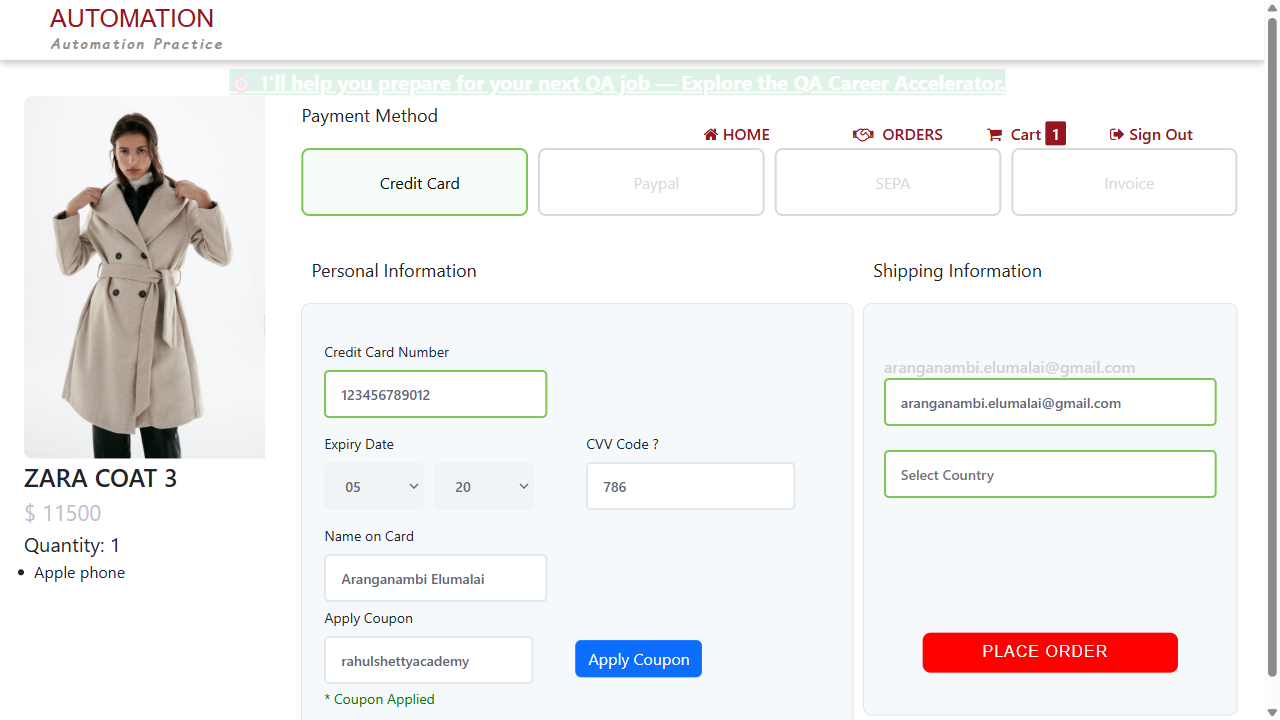
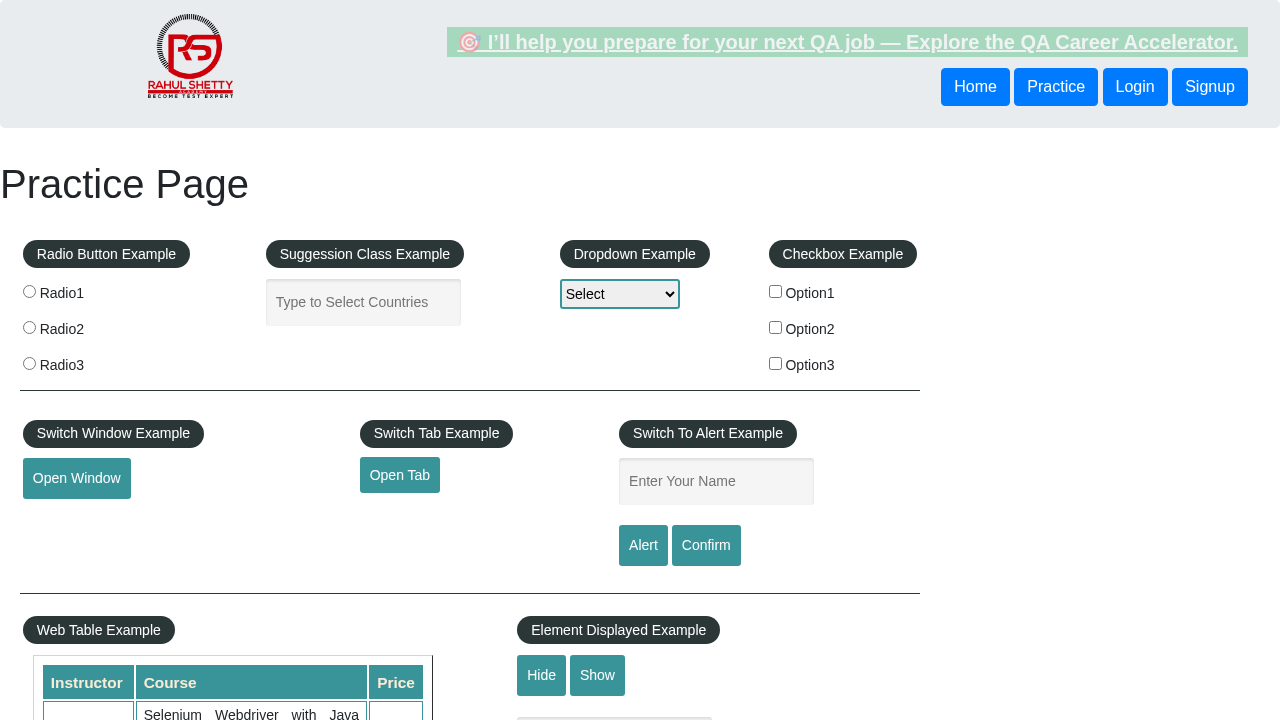
QAOps Push

diff --git a/cucumber.html b/cucumber.html
@@ -44,7 +44,7 @@
 <div id="content">
 </div>
 <script>
-window.CUCUMBER_MESSAGES = [{"meta":{"protocolVersion":"28.1.0","implementation":{"version":"12.2.0","name":"cucumber-js"},"cpu":{"name":"x64"},"os":{"name":"win32","version":"10.0.26300"},"runtime":{"name":"node.js","version":"20.13.1"}}},{"source":{"data":"Feature: Ecommerce validations\r\n\r\nScenario: Placing the order\r\nGiven Login to ecommerce application with \"aranganambi.elumalai@gmail.com\" and \"Eras@9080068137\"\r\nWhen Add \"ZARA COAT 3\" to cart\r\nThen Verify \"ZARA COAT 3\" is displayed in the cart\r\nThen Enter valid detatails and place the order\r\nThen Verify order present in the order history page","uri":"features\\Eccomerce.feature","mediaType":"text/x.cucumber.gherkin+plain"}},{"gherkinDocument":{"feature":{"tags":[],"location":{"line":1,"column":1},"language":"en","keyword":"Feature","name":"Ecommerce validations","description":"","children":[{"scenario":{"id":"2f4ec7d7-c551-434f-ae49-6b3fa7b36644","tags":[],"location":{"line":3,"column":1},"keyword":"Scenario","name":"Placing the order","description":"","steps":[{"id":"73eb69ff-9e9b-4d4a-a1d0-83cbbbfa44c0","location":{"line":4,"column":1},"keyword":"Given ","keywordType":"Context","text":"Login to ecommerce application with \"aranganambi.elumalai@gmail.com\" and \"Eras@9080068137\""},{"id":"a15e5e2a-36c6-48e9-ad71-7fb30e69fb32","location":{"line":5,"column":1},"keyword":"When ","keywordType":"Action","text":"Add \"ZARA COAT 3\" to cart"},{"id":"a806dd23-ec2e-4450-bd61-86950dfec624","location":{"line":6,"column":1},"keyword":"Then ","keywordType":"Outcome","text":"Verify \"ZARA COAT 3\" is displayed in the cart"},{"id":"47287dae-8ec9-4415-bb5c-cfb24b6f471a","location":{"line":7,"column":1},"keyword":"Then ","keywordType":"Outcome","text":"Enter valid detatails and place the order"},{"id":"34a6e715-bcc2-49f4-a9a1-eab1a0e742f6","location":{"line":8,"column":1},"keyword":"Then ","keywordType":"Outcome","text":"Verify order present in the order history page"}],"examples":[]}}]},"comments":[],"uri":"features\\Eccomerce.feature"}},{"pickle":{"id":"a6099110-c3d9-44cb-85f5-786d74141db8","uri":"features\\Eccomerce.feature","astNodeIds":["2f4ec7d7-c551-434f-ae49-6b3fa7b36644"],"tags":[],"name":"Placing the order","language":"en","steps":[{"id":"8f648884-6111-4196-8a2e-50375e4839e4","text":"Login to ecommerce application with \"aranganambi.elumalai@gmail.com\" and \"Eras@9080068137\"","type":"Context","astNodeIds":["73eb69ff-9e9b-4d4a-a1d0-83cbbbfa44c0"]},{"id":"cdcd2ca7-a5ee-40e1-ac1f-a1dc126a5a72","text":"Add \"ZARA COAT 3\" to cart","type":"Action","astNodeIds":["a15e5e2a-36c6-48e9-ad71-7fb30e69fb32"]},{"id":"e6825a54-8556-4bb4-83e7-904f1a124af2","text":"Verify \"ZARA COAT 3\" is displayed in the cart","type":"Outcome","astNodeIds":["a806dd23-ec2e-4450-bd61-86950dfec624"]},{"id":"2b58ef54-a3c2-48e3-9326-656a4548656b","text":"Enter valid detatails and place the order","type":"Outcome","astNodeIds":["47287dae-8ec9-4415-bb5c-cfb24b6f471a"]},{"id":"a5ed90c7-7ee8-4e69-a689-8d14b263b77b","text":"Verify order present in the order history page","type":"Outcome","astNodeIds":["34a6e715-bcc2-49f4-a9a1-eab1a0e742f6"]}]}},{"stepDefinition":{"id":"d935026a-384a-40b0-adf7-6231b8b3dba7","pattern":{"source":"Login to ecommerce application with {string} and {string}","type":"CUCUMBER_EXPRESSION"},"sourceReference":{"uri":"features\\Step_Definition\\step.js","location":{"line":12}}}},{"stepDefinition":{"id":"02bf901c-dba3-4f82-ba32-fdc3472c1dd8","pattern":{"source":"Add {string} to cart","type":"CUCUMBER_EXPRESSION"},"sourceReference":{"uri":"features\\Step_Definition\\step.js","location":{"line":18}}}},{"stepDefinition":{"id":"6e64316c-dd9d-48d6-a5e0-8c6a1be73e12","pattern":{"source":"Verify {string} is displayed in the cart","type":"CUCUMBER_EXPRESSION"},"sourceReference":{"uri":"features\\Step_Definition\\step.js","location":{"line":23}}}},{"stepDefinition":{"id":"f0eb7551-e9b0-46ae-b651-5b4c8d4fd38a","pattern":{"source":"Enter valid detatails and place the order","type":"CUCUMBER_EXPRESSION"},"sourceReference":{"uri":"features\\Step_Definition\\step.js","location":{"line":28}}}},{"stepDefinition":{"id":"4cb2198f-f2d5-41e7-97a3-55b3c68c6bfa","pattern":{"source":"Verify order present in the order history page","type":"CUCUMBER_EXPRESSION"},"sourceReference":{"uri":"features\\Step_Definition\\step.js","location":{"line":33}}}},{"hook":{"id":"b7a469ef-6a11-4d3e-b493-a0f6278ac7aa","type":"BEFORE_TEST_CASE","sourceReference":{"uri":"features\\Hooks\\hook.js","location":{"line":7}}}},{"hook":{"id":"f2545c4d-2aa3-422b-bd0e-4e9ddc238e69","type":"AFTER_TEST_CASE","sourceReference":{"uri":"features\\Hooks\\hook.js","location":{"line":24}}}},{"testRunStarted":{"id":"4348e2cc-d89b-4a36-9e2d-a075a137b5c5","timestamp":{"seconds":1791303663,"nanos":871000000}}},{"testCase":{"testRunStartedId":"4348e2cc-d89b-4a36-9e2d-a075a137b5c5","pickleId":"a6099110-c3d9-44cb-85f5-786d74141db8","id":"d71457bc-67f1-4406-be4e-9a18ef1e2a4b","testSteps":[{"id":"7ecfbed8-fde8-48ca-b036-c06116306a82","hookId":"b7a469ef-6a11-4d3e-b493-a0f6278ac7aa"},{"id":"36332411-bf9b-4ee8-884d-f92a46f9f446","pickleStepId":"8f648884-6111-4196-8a2e-50375e4839e4","stepDefinitionIds":["d935026a-384a-40b0-adf7-6231b8b3dba7"],"stepMatchArgumentsLists":[{"stepMatchArguments":[{"group":{"start":36,"value":"\"aranganambi.elumalai@gmail.com\"","children":[{"start":37,"value":"aranganambi.elumalai@gmail.com","children":[{"children":[]}]},{"children":[{"children":[]}]}]},"parameterTypeName":"string"},{"group":{"start":73,"value":"\"Eras@9080068137\"","children":[{"start":74,"value":"Eras@9080068137","children":[{"children":[]}]},{"children":[{"children":[]}]}]},"parameterTypeName":"string"}]}]},{"id":"ec7e8e20-0b5b-406e-873b-0390a4d95167","pickleStepId":"cdcd2ca7-a5ee-40e1-ac1f-a1dc126a5a72","stepDefinitionIds":["02bf901c-dba3-4f82-ba32-fdc3472c1dd8"],"stepMatchArgumentsLists":[{"stepMatchArguments":[{"group":{"start":4,"value":"\"ZARA COAT 3\"","children":[{"start":5,"value":"ZARA COAT 3","children":[{"children":[]}]},{"children":[{"children":[]}]}]},"parameterTypeName":"string"}]}]},{"id":"69698f91-1df2-46f1-b2b7-a1b1f4526f16","pickleStepId":"e6825a54-8556-4bb4-83e7-904f1a124af2","stepDefinitionIds":["6e64316c-dd9d-48d6-a5e0-8c6a1be73e12"],"stepMatchArgumentsLists":[{"stepMatchArguments":[{"group":{"start":7,"value":"\"ZARA COAT 3\"","children":[{"start":8,"value":"ZARA COAT 3","children":[{"children":[]}]},{"children":[{"children":[]}]}]},"parameterTypeName":"string"}]}]},{"id":"00a8f1f8-bfe4-429a-8dbe-7da2d766816d","pickleStepId":"2b58ef54-a3c2-48e3-9326-656a4548656b","stepDefinitionIds":["f0eb7551-e9b0-46ae-b651-5b4c8d4fd38a"],"stepMatchArgumentsLists":[{"stepMatchArguments":[]}]},{"id":"a288070e-b7bc-4963-a63a-4e04b859bc99","pickleStepId":"a5ed90c7-7ee8-4e69-a689-8d14b263b77b","stepDefinitionIds":["4cb2198f-f2d5-41e7-97a3-55b3c68c6bfa"],"stepMatchArgumentsLists":[{"stepMatchArguments":[]}]},{"id":"ff544a78-d8f8-4c33-9db9-e4370e054d3a","hookId":"f2545c4d-2aa3-422b-bd0e-4e9ddc238e69"}]}},{"testCaseStarted":{"attempt":0,"testCaseId":"d71457bc-67f1-4406-be4e-9a18ef1e2a4b","id":"df3741eb-45a9-4dad-9708-bc5bad283e1b","timestamp":{"seconds":1791303663,"nanos":904000000}}},{"testStepStarted":{"testCaseStartedId":"df3741eb-45a9-4dad-9708-bc5bad283e1b","testStepId":"7ecfbed8-fde8-48ca-b036-c06116306a82","timestamp":{"seconds":1791303663,"nanos":904000000}}},{"testStepFinished":{"testCaseStartedId":"df3741eb-45a9-4dad-9708-bc5bad283e1b","testStepId":"7ecfbed8-fde8-48ca-b036-c06116306a82","testStepResult":{"duration":{"seconds":3,"nanos":356785400},"status":"PASSED"},"timestamp":{"seconds":1791303667,"nanos":264000000}}},{"testStepStarted":{"testCaseStartedId":"df3741eb-45a9-4dad-9708-bc5bad283e1b","testStepId":"36332411-bf9b-4ee8-884d-f92a46f9f446","timestamp":{"seconds":1791303667,"nanos":265000000}}},{"testStepFinished":{"testCaseStartedId":"df3741eb-45a9-4dad-9708-bc5bad283e1b","testStepId":"36332411-bf9b-4ee8-884d-f92a46f9f446","testStepResult":{"duration":{"seconds":4,"nanos":578334199},"status":"PASSED"},"timestamp":{"seconds":1791303671,"nanos":846000000}}},{"testStepStarted":{"testCaseStartedId":"df3741eb-45a9-4dad-9708-bc5bad283e1b","testStepId":"ec7e8e20-0b5b-406e-873b-0390a4d95167","timestamp":{"seconds":1791303671,"nanos":849000000}}},{"testStepFinished":{"testCaseStartedId":"df3741eb-45a9-4dad-9708-bc5bad283e1b","testStepId":"ec7e8e20-0b5b-406e-873b-0390a4d95167","testStepResult":{"duration":{"seconds":2,"nanos":592989097},"status":"PASSED"},"timestamp":{"seconds":1791303674,"nanos":444000000}}},{"testStepStarted":{"testCaseStartedId":"df3741eb-45a9-4dad-9708-bc5bad283e1b","testStepId":"69698f91-1df2-46f1-b2b7-a1b1f4526f16","timestamp":{"seconds":1791303674,"nanos":447000000}}},{"testStepFinished":{"testCaseStartedId":"df3741eb-45a9-4dad-9708-bc5bad283e1b","testStepId":"69698f91-1df2-46f1-b2b7-a1b1f4526f16","testStepResult":{"duration":{"seconds":0,"nanos":393608499},"status":"PASSED"},"timestamp":{"seconds":1791303674,"nanos":845000000}}},{"testStepStarted":{"testCaseStartedId":"df3741eb-45a9-4dad-9708-bc5bad283e1b","testStepId":"00a8f1f8-bfe4-429a-8dbe-7da2d766816d","timestamp":{"seconds":1791303674,"nanos":846000000}}},{"testStepFinished":{"testCaseStartedId":"df3741eb-45a9-4dad-9708-bc5bad283e1b","testStepId":"00a8f1f8-bfe4-429a-8dbe-7da2d766816d","testStepResult":{"duration":{"seconds":5,"nanos":975251600},"status":"PASSED"},"timestamp":{"seconds":1791303680,"nanos":823000000}}},{"testStepStarted":{"testCaseStartedId":"df3741eb-45a9-4dad-9708-bc5bad283e1b","testStepId":"a288070e-b7bc-4963-a63a-4e04b859bc99","timestamp":{"seconds":1791303680,"nanos":825000000}}},{"testStepFinished":{"testCaseStartedId":"df3741eb-45a9-4dad-9708-bc5bad283e1b","testStepId":"a288070e-b7bc-4963-a63a-4e04b859bc99","testStepResult":{"duration":{"seconds":0,"nanos":744530897},"status":"PASSED"},"timestamp":{"seconds":1791303681,"nanos":572000000}}},{"testStepStarted":{"testCaseStartedId":"df3741eb-45a9-4dad-9708-bc5bad283e1b","testStepId":"ff544a78-d8f8-4c33-9db9-e4370e054d3a","timestamp":{"seconds":1791303681,"nanos":574000000}}},{"testStepFinished":{"testCaseStartedId":"df3741eb-45a9-4dad-9708-bc5bad283e1b","testStepId":"ff544a78-d8f8-4c33-9db9-e4370e054d3a","testStepResult":{"duration":{"seconds":0,"nanos":3496299},"status":"PASSED"},"timestamp":{"seconds":1791303681,"nanos":579000000}}},{"testCaseFinished":{"testCaseStartedId":"df3741eb-45a9-4dad-9708-bc5bad283e1b","timestamp":{"seconds":1791303681,"nanos":581000000},"willBeRetried":false}},{"testRunFinished":{"testRunStartedId":"4348e2cc-d89b-4a36-9e2d-a075a137b5c5","timestamp":{"seconds":1791303681,"nanos":586000000},"success":true}}];
+window.CUCUMBER_MESSAGES = [{"meta":{"protocolVersion":"28.1.0","implementation":{"version":"12.2.0","name":"cucumber-js"},"cpu":{"name":"x64"},"os":{"name":"win32","version":"10.0.26300"},"runtime":{"name":"node.js","version":"20.13.1"},"ci":{"name":"Jenkins","url":"http://localhost:8080/job/PlaywrightFramework/23/","buildNumber":"23","git":{"revision":"9a4dd3bdb441e91f334064f979764026d0f11337","remote":"https://github.com/aranganambi/playwrightAutomation.git"}}}},{"source":{"data":"Feature: Ecommerce validations\r\n\r\nScenario: Placing the order\r\nGiven Login to ecommerce application with \"aranganambi.elumalai@gmail.com\" and \"Eras@9080068137\"\r\nWhen Add \"ZARA COAT 3\" to cart\r\nThen Verify \"ZARA COAT 3\" is displayed in the cart\r\nThen Enter valid detatails and place the order\r\nThen Verify order present in the order history page","uri":"features\\Eccomerce.feature","mediaType":"text/x.cucumber.gherkin+plain"}},{"gherkinDocument":{"feature":{"tags":[],"location":{"line":1,"column":1},"language":"en","keyword":"Feature","name":"Ecommerce validations","description":"","children":[{"scenario":{"id":"a778d206-b7c1-4122-9386-1f6e5c82230e","tags":[],"location":{"line":3,"column":1},"keyword":"Scenario","name":"Placing the order","description":"","steps":[{"id":"4777723b-67d7-46b2-951a-bcbfe7014ad9","location":{"line":4,"column":1},"keyword":"Given ","keywordType":"Context","text":"Login to ecommerce application with \"aranganambi.elumalai@gmail.com\" and \"Eras@9080068137\""},{"id":"e9fbe020-8e73-4a65-9416-d0d09a504243","location":{"line":5,"column":1},"keyword":"When ","keywordType":"Action","text":"Add \"ZARA COAT 3\" to cart"},{"id":"2c4b8047-a97b-484a-8fe9-e5b62880e35a","location":{"line":6,"column":1},"keyword":"Then ","keywordType":"Outcome","text":"Verify \"ZARA COAT 3\" is displayed in the cart"},{"id":"3e8999b6-c35c-490f-a94a-2cbef3a61010","location":{"line":7,"column":1},"keyword":"Then ","keywordType":"Outcome","text":"Enter valid detatails and place the order"},{"id":"818b529e-f506-41e1-88c9-06c2e55d4757","location":{"line":8,"column":1},"keyword":"Then ","keywordType":"Outcome","text":"Verify order present in the order history page"}],"examples":[]}}]},"comments":[],"uri":"features\\Eccomerce.feature"}},{"pickle":{"id":"da1e9775-0f46-497c-86c9-731037b6a17c","uri":"features\\Eccomerce.feature","astNodeIds":["a778d206-b7c1-4122-9386-1f6e5c82230e"],"tags":[],"name":"Placing the order","language":"en","steps":[{"id":"a23862fd-8d32-482b-b5f8-3e4ada25c15d","text":"Login to ecommerce application with \"aranganambi.elumalai@gmail.com\" and \"Eras@9080068137\"","type":"Context","astNodeIds":["4777723b-67d7-46b2-951a-bcbfe7014ad9"]},{"id":"5be43095-bfec-47bd-abf9-0b4f902e286a","text":"Add \"ZARA COAT 3\" to cart","type":"Action","astNodeIds":["e9fbe020-8e73-4a65-9416-d0d09a504243"]},{"id":"040c2846-fb27-46fd-9727-ebe344ddf5d9","text":"Verify \"ZARA COAT 3\" is displayed in the cart","type":"Outcome","astNodeIds":["2c4b8047-a97b-484a-8fe9-e5b62880e35a"]},{"id":"09ee1280-4d25-4240-9b40-dbefb934093e","text":"Enter valid detatails and place the order","type":"Outcome","astNodeIds":["3e8999b6-c35c-490f-a94a-2cbef3a61010"]},{"id":"05d3e628-319f-4197-a1dd-dcdaf643dfa3","text":"Verify order present in the order history page","type":"Outcome","astNodeIds":["818b529e-f506-41e1-88c9-06c2e55d4757"]}]}},{"stepDefinition":{"id":"39a02e81-5659-47be-853c-e9a0ceab112c","pattern":{"source":"Login to ecommerce application with {string} and {string}","type":"CUCUMBER_EXPRESSION"},"sourceReference":{"uri":"features\\Step_Definition\\step.js","location":{"line":12}}}},{"stepDefinition":{"id":"9dd5eec9-9e9b-4d01-ba51-1c837f6debd0","pattern":{"source":"Add {string} to cart","type":"CUCUMBER_EXPRESSION"},"sourceReference":{"uri":"features\\Step_Definition\\step.js","location":{"line":18}}}},{"stepDefinition":{"id":"d5bb6fc3-4976-4b8c-a965-d5e32c599763","pattern":{"source":"Verify {string} is displayed in the cart","type":"CUCUMBER_EXPRESSION"},"sourceReference":{"uri":"features\\Step_Definition\\step.js","location":{"line":23}}}},{"stepDefinition":{"id":"d17a321d-52eb-4293-b4a0-12eab5aa3328","pattern":{"source":"Enter valid detatails and place the order","type":"CUCUMBER_EXPRESSION"},"sourceReference":{"uri":"features\\Step_Definition\\step.js","location":{"line":28}}}},{"stepDefinition":{"id":"9adaf233-1c74-4ec7-99a5-56b5df2700cd","pattern":{"source":"Verify order present in the order history page","type":"CUCUMBER_EXPRESSION"},"sourceReference":{"uri":"features\\Step_Definition\\step.js","location":{"line":33}}}},{"hook":{"id":"3d3c0db0-fe9d-4da1-ba32-df8bef741f5f","type":"BEFORE_TEST_CASE","sourceReference":{"uri":"features\\Hooks\\hook.js","location":{"line":7}}}},{"hook":{"id":"48283479-7a00-421c-9bc4-bdd11be8639b","type":"AFTER_TEST_CASE","sourceReference":{"uri":"features\\Hooks\\hook.js","location":{"line":24}}}},{"testRunStarted":{"id":"f12da9fe-f8ea-4144-bdce-55abc6718f22","timestamp":{"seconds":1791304615,"nanos":315000000}}},{"testCase":{"testRunStartedId":"f12da9fe-f8ea-4144-bdce-55abc6718f22","pickleId":"da1e9775-0f46-497c-86c9-731037b6a17c","id":"e232a182-228a-4bf6-bab0-7114f872ca3f","testSteps":[{"id":"f1d88649-7ca6-482f-aecb-5203650168aa","hookId":"3d3c0db0-fe9d-4da1-ba32-df8bef741f5f"},{"id":"156e70e0-9a07-413d-89ed-b49249c2581f","pickleStepId":"a23862fd-8d32-482b-b5f8-3e4ada25c15d","stepDefinitionIds":["39a02e81-5659-47be-853c-e9a0ceab112c"],"stepMatchArgumentsLists":[{"stepMatchArguments":[{"group":{"start":36,"value":"\"aranganambi.elumalai@gmail.com\"","children":[{"start":37,"value":"aranganambi.elumalai@gmail.com","children":[{"children":[]}]},{"children":[{"children":[]}]}]},"parameterTypeName":"string"},{"group":{"start":73,"value":"\"Eras@9080068137\"","children":[{"start":74,"value":"Eras@9080068137","children":[{"children":[]}]},{"children":[{"children":[]}]}]},"parameterTypeName":"string"}]}]},{"id":"9ed5fd78-6889-4516-a629-bafef2e4ab8d","pickleStepId":"5be43095-bfec-47bd-abf9-0b4f902e286a","stepDefinitionIds":["9dd5eec9-9e9b-4d01-ba51-1c837f6debd0"],"stepMatchArgumentsLists":[{"stepMatchArguments":[{"group":{"start":4,"value":"\"ZARA COAT 3\"","children":[{"start":5,"value":"ZARA COAT 3","children":[{"children":[]}]},{"children":[{"children":[]}]}]},"parameterTypeName":"string"}]}]},{"id":"3309a122-ce10-4470-bbbf-e913f0f17482","pickleStepId":"040c2846-fb27-46fd-9727-ebe344ddf5d9","stepDefinitionIds":["d5bb6fc3-4976-4b8c-a965-d5e32c599763"],"stepMatchArgumentsLists":[{"stepMatchArguments":[{"group":{"start":7,"value":"\"ZARA COAT 3\"","children":[{"start":8,"value":"ZARA COAT 3","children":[{"children":[]}]},{"children":[{"children":[]}]}]},"parameterTypeName":"string"}]}]},{"id":"fcce5e2b-6d7d-4571-a05a-b3c7d9e6f6ea","pickleStepId":"09ee1280-4d25-4240-9b40-dbefb934093e","stepDefinitionIds":["d17a321d-52eb-4293-b4a0-12eab5aa3328"],"stepMatchArgumentsLists":[{"stepMatchArguments":[]}]},{"id":"b9f5fa43-b863-43f5-a6ab-36e81fe52616","pickleStepId":"05d3e628-319f-4197-a1dd-dcdaf643dfa3","stepDefinitionIds":["9adaf233-1c74-4ec7-99a5-56b5df2700cd"],"stepMatchArgumentsLists":[{"stepMatchArguments":[]}]},{"id":"011128d4-d827-4bfb-bf0a-37286ffb02e8","hookId":"48283479-7a00-421c-9bc4-bdd11be8639b"}]}},{"testCaseStarted":{"attempt":0,"testCaseId":"e232a182-228a-4bf6-bab0-7114f872ca3f","id":"f626ecf2-2d98-4e0f-89eb-8ae13402e6ec","timestamp":{"seconds":1791304615,"nanos":343000000}}},{"testStepStarted":{"testCaseStartedId":"f626ecf2-2d98-4e0f-89eb-8ae13402e6ec","testStepId":"f1d88649-7ca6-482f-aecb-5203650168aa","timestamp":{"seconds":1791304615,"nanos":343000000}}},{"testStepFinished":{"testCaseStartedId":"f626ecf2-2d98-4e0f-89eb-8ae13402e6ec","testStepId":"f1d88649-7ca6-482f-aecb-5203650168aa","testStepResult":{"duration":{"seconds":1,"nanos":873777000},"status":"PASSED"},"timestamp":{"seconds":1791304617,"nanos":217000000}}},{"testStepStarted":{"testCaseStartedId":"f626ecf2-2d98-4e0f-89eb-8ae13402e6ec","testStepId":"156e70e0-9a07-413d-89ed-b49249c2581f","timestamp":{"seconds":1791304617,"nanos":218000000}}},{"testStepFinished":{"testCaseStartedId":"f626ecf2-2d98-4e0f-89eb-8ae13402e6ec","testStepId":"156e70e0-9a07-413d-89ed-b49249c2581f","testStepResult":{"duration":{"seconds":4,"nanos":326666498},"status":"PASSED"},"timestamp":{"seconds":1791304621,"nanos":546000000}}},{"testStepStarted":{"testCaseStartedId":"f626ecf2-2d98-4e0f-89eb-8ae13402e6ec","testStepId":"9ed5fd78-6889-4516-a629-bafef2e4ab8d","timestamp":{"seconds":1791304621,"nanos":546000000}}},{"testStepFinished":{"testCaseStartedId":"f626ecf2-2d98-4e0f-89eb-8ae13402e6ec","testStepId":"9ed5fd78-6889-4516-a629-bafef2e4ab8d","testStepResult":{"duration":{"seconds":2,"nanos":283240299},"status":"PASSED"},"timestamp":{"seconds":1791304623,"nanos":830000000}}},{"testStepStarted":{"testCaseStartedId":"f626ecf2-2d98-4e0f-89eb-8ae13402e6ec","testStepId":"3309a122-ce10-4470-bbbf-e913f0f17482","timestamp":{"seconds":1791304623,"nanos":830000000}}},{"testStepFinished":{"testCaseStartedId":"f626ecf2-2d98-4e0f-89eb-8ae13402e6ec","testStepId":"3309a122-ce10-4470-bbbf-e913f0f17482","testStepResult":{"duration":{"seconds":0,"nanos":96658399},"status":"PASSED"},"timestamp":{"seconds":1791304623,"nanos":928000000}}},{"testStepStarted":{"testCaseStartedId":"f626ecf2-2d98-4e0f-89eb-8ae13402e6ec","testStepId":"fcce5e2b-6d7d-4571-a05a-b3c7d9e6f6ea","timestamp":{"seconds":1791304623,"nanos":928000000}}},{"testStepFinished":{"testCaseStartedId":"f626ecf2-2d98-4e0f-89eb-8ae13402e6ec","testStepId":"fcce5e2b-6d7d-4571-a05a-b3c7d9e6f6ea","testStepResult":{"duration":{"seconds":4,"nanos":311280800},"status":"PASSED"},"timestamp":{"seconds":1791304628,"nanos":240000000}}},{"testStepStarted":{"testCaseStartedId":"f626ecf2-2d98-4e0f-89eb-8ae13402e6ec","testStepId":"b9f5fa43-b863-43f5-a6ab-36e81fe52616","timestamp":{"seconds":1791304628,"nanos":249000000}}},{"testStepFinished":{"testCaseStartedId":"f626ecf2-2d98-4e0f-89eb-8ae13402e6ec","testStepId":"b9f5fa43-b863-43f5-a6ab-36e81fe52616","testStepResult":{"duration":{"seconds":0,"nanos":163104398},"status":"PASSED"},"timestamp":{"seconds":1791304628,"nanos":412000000}}},{"testStepStarted":{"testCaseStartedId":"f626ecf2-2d98-4e0f-89eb-8ae13402e6ec","testStepId":"011128d4-d827-4bfb-bf0a-37286ffb02e8","timestamp":{"seconds":1791304628,"nanos":413000000}}},{"testStepFinished":{"testCaseStartedId":"f626ecf2-2d98-4e0f-89eb-8ae13402e6ec","testStepId":"011128d4-d827-4bfb-bf0a-37286ffb02e8","testStepResult":{"duration":{"seconds":0,"nanos":440599},"status":"PASSED"},"timestamp":{"seconds":1791304628,"nanos":413000000}}},{"testCaseFinished":{"testCaseStartedId":"f626ecf2-2d98-4e0f-89eb-8ae13402e6ec","timestamp":{"seconds":1791304628,"nanos":413000000},"willBeRetried":false}},{"testRunFinished":{"testRunStartedId":"f12da9fe-f8ea-4144-bdce-55abc6718f22","timestamp":{"seconds":1791304628,"nanos":414000000},"success":true}}];
 </script>
 <script>
 /*! For license information please see main.js.LICENSE.txt */

diff --git a/playwright.service.config.js b/playwright.service.config.js
@@ -1,27 +1,29 @@
-import { defineConfig } from '@playwright/test';
-import {
-  createAzurePlaywrightConfig,
-  ServiceOS,
-  ServiceAuth
-} from '@azure/playwright';
-import { AzureCliCredential } from '@azure/identity';
+const { defineConfig } = require('@playwright/test');
+const { createAzurePlaywrightConfig, ServiceOS } = require('@azure/playwright');
+const { DefaultAzureCredential } = require('@azure/identity');
+const config = require('./playwright.config');
 
-import config from './playwright.config';
-
+/* Learn more about service configuration at https://aka.ms/pww/docs/config */
 export default defineConfig(
   config,
-
   createAzurePlaywrightConfig(config, {
-    serviceAuthType: ServiceAuth.ENTRA_ID,
-
-    os: ServiceOS.LINUX,
-
-    credential: new AzureCliCredential(),
-
     exposeNetwork: '<loopback>',
+    connectTimeout: 3 * 60 * 1000, // 3 minutes
+    os: ServiceOS.LINUX,
+    credential: new DefaultAzureCredential(),
+  }),
+  {
+    /*
+    Enable Playwright Workspaces Reporter:
+    Uncomment the reporter section below to upload test results and reports to Playwright Workspaces.
 
-    connectTimeout: 30000,
-
-    runName: 'Azure DevOps Playwright Run'
-  })
+    Note: The HTML reporter must be included before Playwright Workspaces Reporter.
+    This configuration will replace any existing reporter settings from your base config.
+    If you're already using other reporters, add them to this array.
+    */
+    reporter: [
+      ["html", { open: "never" }],
+      ["@azure/playwright/reporter"],
+    ],
+  }
 );

diff --git a/playwright.config.js b/playwright.config.js
@@ -24,7 +24,7 @@ export default defineConfig({
     actionTimeout: 30000,
     navigationTimeout: 30 * 1000,
     browserName: 'chromium',
-    headless: false,
+    headless: true,
     screenshot: 'only-on-failure',
     video: 'retain-on-failure',
     trace: 'retain-on-failure',
